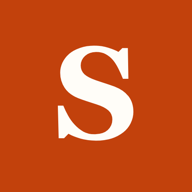
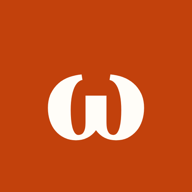
Rename wordmark to ωlvε; horizontal CoWork folders; fix voice error crash
- Wordmark is now ωlvε (S dropped, o -> omega, V -> v); monogram and app icons use omega
- CoWork picker lays folders out side by side as columns
- Voice Tutor: Vapi errors are objects ({type,msg,details}); reduce to text instead
  of rendering them (React crash), and treat "Meeting has ended" as a normal hang-up

Changed region(s): [[0.25, 0.2188, 0.75, 0.75]]

diff --git a/src/components/landing/Sections.tsx b/src/components/landing/Sections.tsx
@@ -33,7 +33,7 @@ export function Router() {
         <div className="mb-10 max-w-2xl">
           <WordReveal text="A doubt goes in. The right help comes out." className={h2} />
           <Reveal delay={120}>
-            <p className={lede}>Ask in your own words. SolVε reads it against your history and your notes, names the kind of gap, and picks the route that will fix it fastest.</p>
+            <p className={lede}>Ask in your own words. ωlvε reads it against your history and your notes, names the kind of gap, and picks the route that will fix it fastest.</p>
           </Reveal>
         </div>
         <Reveal>
@@ -47,7 +47,7 @@ export function Router() {
 const FEATURES = [
   { icon: Route, title: "Knows why you're stuck", body: "Diagnoses a concept gap, a missing prerequisite or a careless slip, then picks the fastest fix: AI explanation, targeted practice or a live teacher." },
   { icon: Library, title: "Answers from your own notes", body: "Upload your PDFs and textbooks. Explanations are grounded in your material and point to the exact page." },
-  { icon: PenTool, title: "Every step, checked", body: "Type your working or snap a photo. SolVε finds the first wrong step, explains the slip and scores your method." },
+  { icon: PenTool, title: "Every step, checked", body: "Type your working or snap a photo. ωlvε finds the first wrong step, explains the slip and scores your method." },
   { icon: Mic, title: "Teach it out loud", body: "Explain a topic in your own words. Get scored on accuracy, structure, clarity, filler words and pauses." },
   { icon: Target, title: "A spoken exam that adapts", body: "Face an oral exam that gets harder as you answer well, then get a report with weak topics and a study plan." },
   { icon: Dumbbell, title: "Practice that targets gaps", body: "Question sets built around the subtopics you keep missing, with hints and instant feedback." },
@@ -63,7 +63,7 @@ export function Features() {
       <div className="mx-auto max-w-6xl px-6">
         <WordReveal text="Ten tools. One place to get unstuck." className={cn(h2, "max-w-3xl")} />
         <Reveal delay={120}>
-          <p className={lede}>Ask a doubt any way you like. SolVε works out what kind of help you need, from instant AI answers to a real teacher on video.</p>
+          <p className={lede}>Ask a doubt any way you like. ωlvε works out what kind of help you need, from instant AI answers to a real teacher on video.</p>
         </Reveal>
 
         <ul className="mt-14 grid gap-x-14 sm:grid-cols-2">
@@ -86,7 +86,7 @@ export function Features() {
 
 const STEPS = [
   { n: "1", title: "Ask however you like", body: "Type it, speak it, or upload a photo of the problem. Add your own notes to the Study Vault for answers that cite your material." },
-  { n: "2", title: "SolVε finds the gap", body: "The router reads your doubt together with your history and learner profile, and decides whether you need an explanation, practice or a human." },
+  { n: "2", title: "ωlvε finds the gap", body: "The router reads your doubt together with your history and learner profile, and decides whether you need an explanation, practice or a human." },
   { n: "3", title: "Get the right help, instantly", body: "An AI explanation with page citations, a practice set aimed at your weak spots, or a live video session with a verified teacher who already knows where you're stuck." },
   { n: "4", title: "It remembers, so you improve", body: "Session summaries and results feed your profile and a shared knowledge base. The next answer is a little sharper, and so are you." },
 ];
@@ -230,7 +230,7 @@ export function Footer() {
       <div className="mx-auto flex max-w-6xl flex-col items-center justify-between gap-4 px-6 text-sm text-muted sm:flex-row">
         <div className="flex items-center gap-3">
           <Logo size={30} />
-          <span className="font-display text-lg font-semibold text-ink">SolVε</span>
+          <span className="font-display text-lg font-semibold text-ink">ωlvε</span>
         </div>
         <p>The Industry Games 2026, District 03: AI-Native Education</p>
       </div>

diff --git a/src/app/voice-tutor/page.tsx b/src/app/voice-tutor/page.tsx
@@ -30,6 +30,19 @@ interface VapiClient {
 const PUBLIC_KEY = process.env.NEXT_PUBLIC_VAPI_PUBLIC_KEY;
 const ASSISTANT_ID = process.env.NEXT_PUBLIC_VAPI_ASSISTANT_ID;
 
+/** Vapi reports errors in several shapes ({error:{msg}}, {message}, or a bare string); reduce any of them to text. */
+function errorText(e: unknown): string {
+  const pick = (v: unknown): string => {
+    if (typeof v === "string") return v;
+    if (v && typeof v === "object") {
+      const o = v as Record<string, unknown>;
+      return pick(o.msg) || pick(o.message) || pick(o.error) || "";
+    }
+    return "";
+  };
+  return pick(e);
+}
+
 const fmt = (s: number) => `${Math.floor(s / 60)}:${String(s % 60).padStart(2, "0")}`;
 
 export default function VoiceTutorPage() {
@@ -128,11 +141,18 @@ export default function VoiceTutorPage() {
       client.on("speech-end", (() => setAssistantSpeaking(false)) as () => void);
       client.on("volume-level", ((v: number) => setVolume(v)) as (v: never) => void);
       client.on("message", onMessage as (m: never) => void);
-      client.on("error", ((e: { error?: { message?: string }; message?: string }) => {
+      client.on("error", ((e: unknown) => {
         // Vapi also reports "meeting ended" style errors as a call winds down; those aren't failures.
         if (statusRef.current === "idle" || statusRef.current === "ending") return;
         console.error("Vapi error:", e);
-        const raw = e?.error?.message || e?.message || "";
+        const raw = errorText(e);
+        // Hitting the 10-minute cap or the tutor hanging up surfaces as "Meeting has ended": just end quietly.
+        if (/meeting has ended|ejected/i.test(raw)) {
+          setStatus("idle");
+          setAssistantSpeaking(false);
+          setVolume(0);
+          return;
+        }
         setError(/permission|denied|NotAllowed/i.test(raw) ? "Microphone access is blocked. Allow it in your browser's address bar, then try again." : raw || "The call couldn't be connected.");
         setStatus("idle");
       }) as (e: never) => void);
@@ -219,7 +239,7 @@ NEXT_PUBLIC_VAPI_ASSISTANT_ID=...`}
                 </div>
 
                 <p className="display mt-6 text-2xl text-ink">
-                  {status === "connecting" ? "Connecting…" : status === "ending" ? "Ending…" : live ? (assistantSpeaking ? "SolVε is speaking" : "Listening…") : "Tap to talk it through"}
+                  {status === "connecting" ? "Connecting…" : status === "ending" ? "Ending…" : live ? (assistantSpeaking ? "ωlvε is speaking" : "Listening…") : "Tap to talk it through"}
                 </p>
                 <p className="mt-1 h-5 font-mono text-xs tabular-nums text-muted">{live ? fmt(seconds) : ""}</p>
 
@@ -251,7 +271,7 @@ NEXT_PUBLIC_VAPI_ASSISTANT_ID=...`}
               ) : (
                 lines.map((l, i) => (
                   <div key={i} className={cn(!l.final && "opacity-70")}>
-                    <p className={cn("hand text-xl leading-none", l.role === "user" ? "ink-blue" : "ink-red")}>{l.role === "user" ? "You" : "SolVε"}</p>
+                    <p className={cn("hand text-xl leading-none", l.role === "user" ? "ink-blue" : "ink-red")}>{l.role === "user" ? "You" : "ωlvε"}</p>
                     <p className="serif text-[15px] leading-7 text-[#1b2440]">{l.text}</p>
                   </div>
                 ))

diff --git a/src/app/login/page.tsx b/src/app/login/page.tsx
@@ -105,7 +105,7 @@ export default function LoginPage() {
         <div className="lp-rise hidden lg:block">
           <div className="mb-8 flex items-center gap-3">
             <Logo size={44} />
-            <span className="font-display text-3xl font-semibold tracking-tight text-ink">SolVε</span>
+            <span className="font-display text-3xl font-semibold tracking-tight text-ink">ωlvε</span>
           </div>
           <h1 className="display text-5xl text-ink">Get unstuck, fast.</h1>
           <p className="mt-5 max-w-md text-lg leading-8 text-muted">The AI-native education OS that finds the real reason you&apos;re stuck and sends you to the fastest help.</p>
@@ -127,13 +127,13 @@ export default function LoginPage() {
         <div className="lp-rise mx-auto w-full max-w-md" style={{ animationDelay: "0.15s" }}>
           <div className="mb-8 flex flex-col items-center lg:hidden">
             <Logo size={52} />
-            <p className="mt-4 font-display text-3xl font-semibold text-ink">SolVε</p>
+            <p className="mt-4 font-display text-3xl font-semibold text-ink">ωlvε</p>
           </div>
 
           <div className="rounded-card border border-line bg-sheet p-7 shadow-lift sm:p-8">
             {choosingRole ? (
               <div className="slide-up">
-                <h1 className="text-center font-display text-2xl font-semibold text-ink">How will you use SolVε?</h1>
+                <h1 className="text-center font-display text-2xl font-semibold text-ink">How will you use ωlvε?</h1>
                 <p className="mb-7 mt-2 text-center text-sm text-muted">Pick the one that fits you.</p>
                 <div className="space-y-3">
                   {[
@@ -188,7 +188,7 @@ export default function LoginPage() {
               </form>
             ) : (
               <div className="slide-up">
-                <h1 className="text-center font-display text-2xl font-semibold text-ink">Welcome to SolVε</h1>
+                <h1 className="text-center font-display text-2xl font-semibold text-ink">Welcome to ωlvε</h1>
                 <p className="mb-7 mt-2 text-center text-sm text-muted">Sign in or create your account in one click.</p>
                 <Button onClick={handleSignIn} size="lg" className="w-full">
                   {googleIcon}

diff --git a/src/app/cowork/page.tsx b/src/app/cowork/page.tsx
@@ -64,7 +64,7 @@ export default function CoWorkPage() {
 
   return (
     <div className="min-h-[100dvh] bg-transparent">
-      <div className="max-w-5xl mx-auto px-4 sm:px-6 py-8 sm:py-12">
+      <div className="max-w-6xl mx-auto px-4 sm:px-6 py-8 sm:py-12">
         <button
           onClick={() => router.push("/dashboard")}
           className="flex items-center gap-2 text-sm text-muted hover:text-ink transition-colors mb-8"
@@ -100,13 +100,15 @@ export default function CoWorkPage() {
             </button>
           </div>
         ) : (
-          <div className="space-y-10">
+          // Folders sit side by side as columns; the files inside each folder stack under its title.
+          <div className="grid grid-cols-1 items-start gap-5 md:grid-cols-2 xl:grid-cols-3">
             {groups.map((group) => (
-              <section key={group.id}>
-                <h2 className="flex items-center gap-2 text-xs font-semibold text-faint mb-4">
-                  <Folder className="w-3.5 h-3.5" /> {group.name}
+              <section key={group.id} className="rounded-card border border-line bg-sheet/60 p-4 shadow-sheet">
+                <h2 className="mb-3 flex items-center gap-2 text-sm font-semibold text-ink">
+                  <Folder className="h-4 w-4 text-pen" /> {group.name}
+                  <span className="ml-auto text-xs font-normal text-faint">{group.docs.length} {group.docs.length === 1 ? "file" : "files"}</span>
                 </h2>
-                <div className="grid grid-cols-1 sm:grid-cols-2 lg:grid-cols-3 gap-3">
+                <div className="flex flex-col gap-2.5">
                   {group.docs.map((vault) => (
                     <button
                       key={vault.id}

diff --git a/src/components/landing/Landing.tsx b/src/components/landing/Landing.tsx
@@ -22,7 +22,7 @@ export default function Landing() {
               </h1>
 
               <p className="lp-rise mt-7 max-w-lg text-lg leading-8 text-muted sm:text-xl sm:leading-9" style={{ animationDelay: "0.6s" }}>
-                SolVε works out why you&apos;re stuck, then sends you to the fastest help: an instant AI explanation, targeted practice, or a live session with a verified teacher.
+                ωlvε works out why you&apos;re stuck, then sends you to the fastest help: an instant AI explanation, targeted practice, or a live session with a verified teacher.
               </p>
 
               <div className="lp-rise mt-9 flex flex-wrap items-center gap-3" style={{ animationDelay: "0.8s" }}>
@@ -30,7 +30,7 @@ export default function Landing() {
                   Start learning
                 </Link>
                 <Link href="/login" className="flex items-center gap-2 rounded-[10px] border border-line-strong bg-sheet px-6 py-3.5 text-base font-medium text-ink transition-colors hover:border-ink/40">
-                  <GraduationCap className="h-5 w-5 text-pen" aria-hidden /> Teach on SolVε
+                  <GraduationCap className="h-5 w-5 text-pen" aria-hidden /> Teach on ωlvε
                 </Link>
               </div>
               <p className="lp-rise mt-5 text-sm text-faint" style={{ animationDelay: "0.95s" }}>

diff --git a/src/app/teacher/onboarding/page.tsx b/src/app/teacher/onboarding/page.tsx
@@ -271,7 +271,7 @@ export default function TeacherOnboarding() {
           <Link href="/teacher-dashboard" className="mb-8 flex items-center gap-3">
             <Logo size={40} />
             <div>
-              <p className="font-display text-lg font-semibold leading-tight tracking-tight">SolVε</p>
+              <p className="font-display text-lg font-semibold leading-tight tracking-tight">ωlvε</p>
               <p className="text-xs text-muted">Teacher registration</p>
             </div>
           </Link>
@@ -525,7 +525,7 @@ export default function TeacherOnboarding() {
 
                 <label className="flex cursor-pointer items-start gap-3 rounded-card border border-line bg-sheet p-4 text-sm text-ink/80">
                   <input type="checkbox" checked={consent} onChange={(e) => setConsent(e.target.checked)} className="mt-0.5 h-4 w-4 shrink-0 accent-pen p-0" />
-                  I confirm these details and documents are genuine and belong to me, and I consent to SolVε reviewing them to verify my identity.
+                  I confirm these details and documents are genuine and belong to me, and I consent to ωlvε reviewing them to verify my identity.
                 </label>
               </div>
             )}

diff --git a/src/app/sample-paper/page.tsx b/src/app/sample-paper/page.tsx
@@ -81,7 +81,7 @@ export default function SamplePaperPage() {
           {!paper ? (
             <div className="animate-in">
               <h2 className="display mb-2 text-2xl text-ink">Build a mock paper from your material</h2>
-              <p className="mb-6 text-muted">Choose previous year papers or notes from your vault. SolVε writes a paper with the questions most likely to come up.</p>
+              <p className="mb-6 text-muted">Choose previous year papers or notes from your vault. ωlvε writes a paper with the questions most likely to come up.</p>
 
               <div className="space-y-6 rounded-card border border-line bg-sheet p-5 shadow-sheet sm:p-6">
                 {loading ? (

diff --git a/src/app/teacher-dashboard/page.tsx b/src/app/teacher-dashboard/page.tsx
@@ -260,7 +260,7 @@ export default function TeacherDashboard() {
           <section className="space-y-3">
             <SectionTitle icon={Sparkles} title="Past sessions" count={past.length} />
             {past.length === 0 ? (
-              <EmptyState icon={Sparkles} title="No sessions yet" body="When you end a session, SolVε writes an AI summary of what helped the student. It shows up here." />
+              <EmptyState icon={Sparkles} title="No sessions yet" body="When you end a session, ωlvε writes an AI summary of what helped the student. It shows up here." />
             ) : (
               <div className="grid gap-3 md:grid-cols-2">
                 {past.slice(0, 12).map((s) => (

diff --git a/src/app/api/solve/evaluate/route.ts b/src/app/api/solve/evaluate/route.ts
@@ -26,7 +26,7 @@ export async function POST(request: NextRequest) {
     const contextStr = formatChunksForPrompt(chunks ?? []);
     const hasVault = chunks && chunks.length > 0;
 
-    const systemPrompt = `You are a meticulous solution evaluator in the SolVε AI Education system.
+    const systemPrompt = `You are a meticulous solution evaluator in the ωlvε AI Education system.
 
 ${hasVault ? `Ground your evaluation in the reference material provided. Cite sources (PDF name, page number) when relevant.` : `No reference material available. Evaluate using general knowledge. For GK questions, evaluate factual accuracy, completeness, and reasoning order instead of mathematical correctness.`}
 

diff --git a/src/app/session/[id]/page.tsx b/src/app/session/[id]/page.tsx
@@ -107,7 +107,7 @@ export default function SessionPage() {
     <div className="h-screen bg-transparent flex flex-col overflow-hidden">
       <header className="h-16 flex-none bg-sheet border-b border-line px-6 flex items-center justify-between">
         <div className="flex items-center gap-4">
-          <div className="w-8 h-8 rounded-lg bg-pen flex items-center justify-center text-snow font-bold">S</div>
+          <div className="w-8 h-8 rounded-lg bg-pen flex items-center justify-center text-snow font-bold">ω</div>
           <div>
             <h1 className="text-sm font-semibold text-ink">Live Session: {session.doubtContext.topic}</h1>
             <p className="text-xs text-muted">

diff --git a/src/app/solve/page.tsx b/src/app/solve/page.tsx
@@ -131,7 +131,7 @@ export default function SolvePage() {
           <div className="mb-8">
             <h2 className="display text-2xl text-ink mb-2">Check your work</h2>
             <p className="text-sm text-muted mb-6">
-              Write your solution step by step or upload a photo of your notebook. SolVε checks your method and points to the first step that goes wrong.
+              Write your solution step by step or upload a photo of your notebook. ωlvε checks your method and points to the first step that goes wrong.
             </p>
             
             <div className="rounded-card border border-line bg-sheet p-5 shadow-sheet sm:p-6">

diff --git a/src/app/ask/page.tsx b/src/app/ask/page.tsx
@@ -130,7 +130,7 @@ export default function AskPage() {
           <div className="mb-8">
             <h2 className="display text-2xl text-ink mb-2">What are you struggling with?</h2>
             <p className="text-sm text-muted mb-6">
-              Ask in your own words. SolVε picks the fastest help: an AI explanation, practice, or a live teacher.
+              Ask in your own words. ωlvε picks the fastest help: an AI explanation, practice, or a live teacher.
             </p>
             <DoubtInput onSubmit={handleSubmit} loading={loadingRoute || loadingExplain} />
             {error && <p className="text-red-400 text-sm mt-3">{error}</p>}
